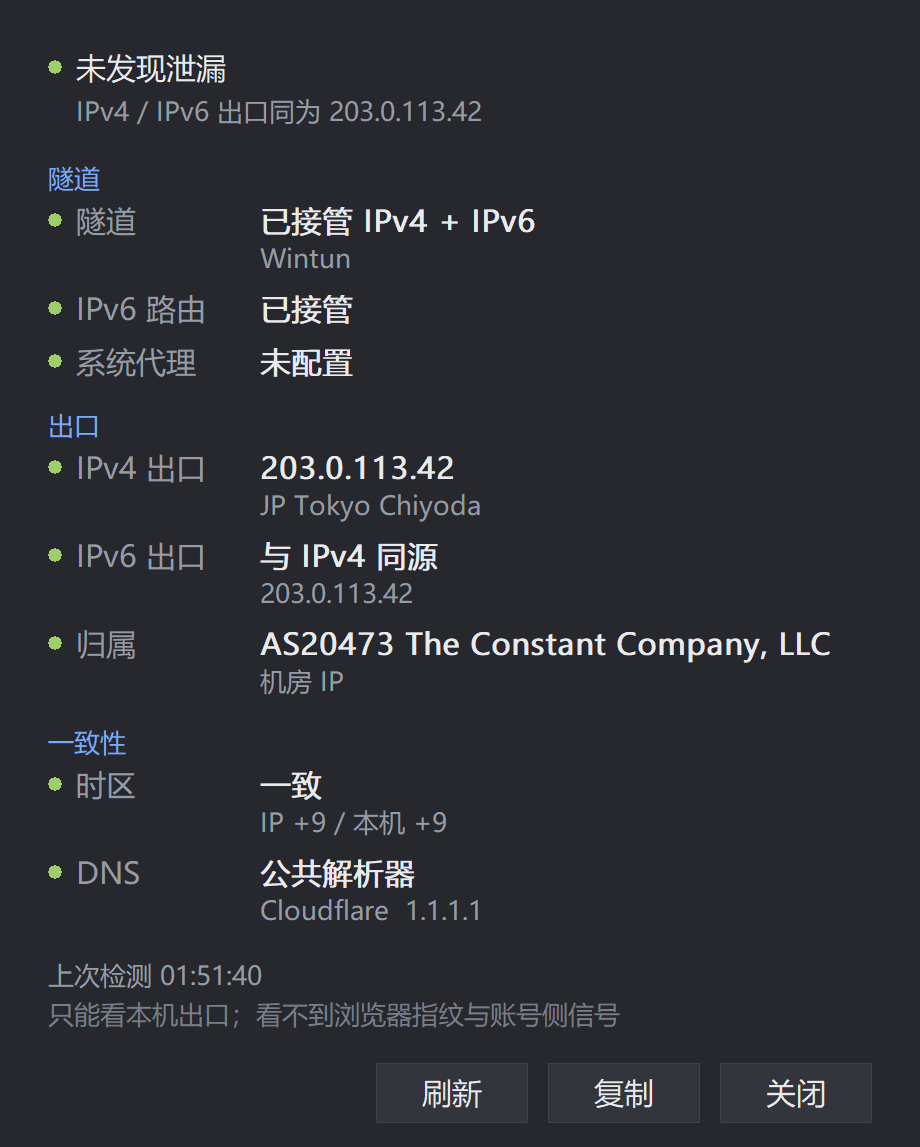
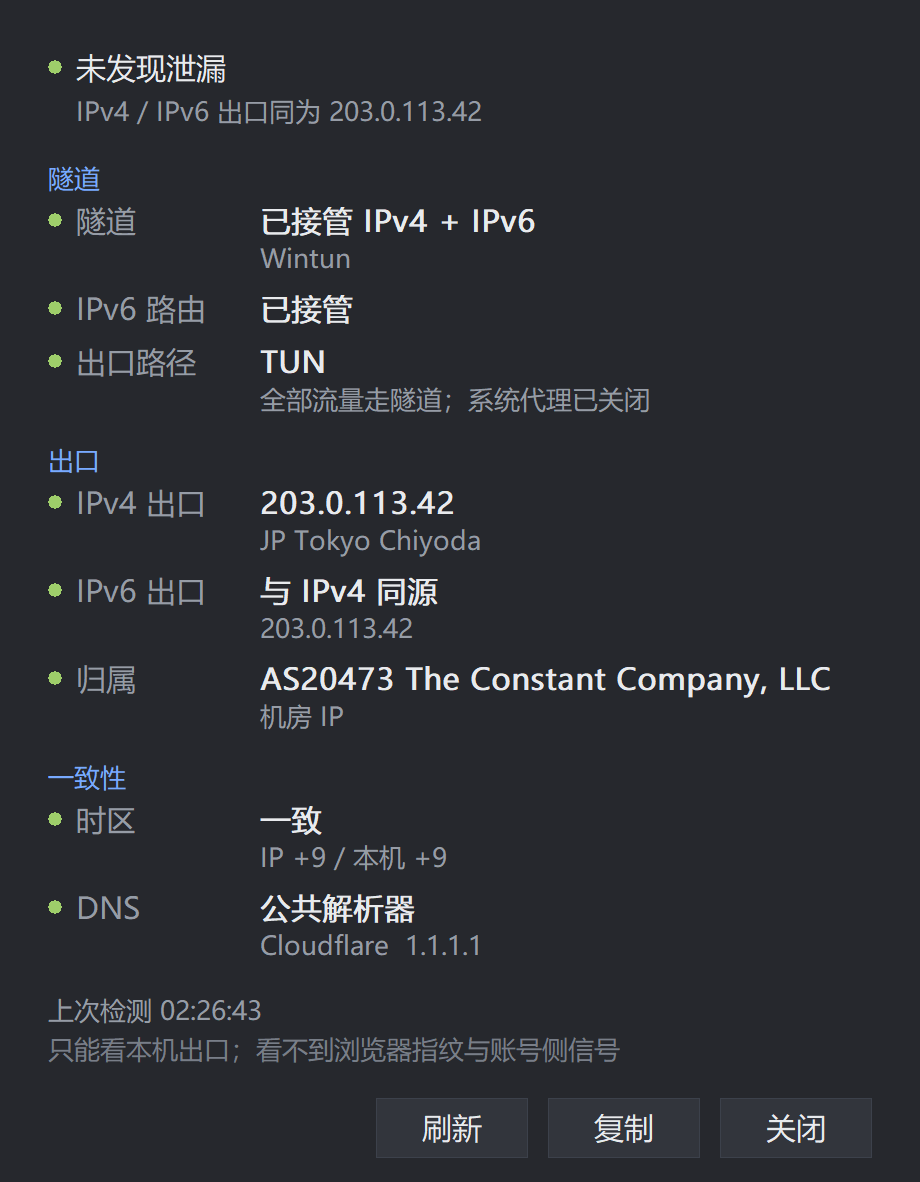
改：第三行徽章「代理」→「路径」，回答"靠什么出去"而不是"开关是几"
原来的判定只报系统代理的开关状态，于是四种组合里三种都是绿的：
开 TUN + 关代理绿、关 TUN + 开代理也绿 —— 等于一个永远显示绿的装饰，
而且"已关闭"配绿点，容易被读成"没问题"，实际上它只是陈述注册表里的值。

现在改成回答「我现在靠什么出去、有没有两条路并存」：
  TUN              （绿）全部流量走隧道，系统代理已关闭
  TUN + 系统代理    （黄）两条路并存，冗余且会让 DNS 行为分裂
  系统代理          （绿）TUN 未接管时的唯一出口
  直连              （空心）什么都没配 —— 不涉及泄漏判定，不是通过

PAC 配了也算走代理（AutoConfigURL 优先级高于 ProxyEnable）。

diff --git a/src/probe.cpp b/src/probe.cpp
@@ -99,20 +99,29 @@ Diagnosis Diagnose(const ProbeInput& in)
         Push(d, LineId::V6Route, L"IPv6 路由", L"已接管", Sev::Ok);
     }
 
-    // ── 系统代理 ──────────────────────────────────────────────────────
-    if (f.pacConfigured) {
-        Push(d, LineId::Proxy, L"系统代理", L"PAC 已配置", Sev::Warn,
-             L"AutoConfigURL 的优先级高于 ProxyServer");
-    } else if (!f.proxyConfigured) {
-        Push(d, LineId::Proxy, L"系统代理", L"未配置", Sev::Ok);
-    } else if (!f.proxyEnabled) {
-        Push(d, LineId::Proxy, L"系统代理", L"已关闭", Sev::Ok,
-             L"注册表仍留有 " + f.proxyServer + L"（未启用）");
-    } else if (tunnelInUse) {
-        Push(d, LineId::Proxy, L"系统代理", L"已开启（与 TUN 叠加）", Sev::Warn,
-             f.proxyServer + L"：冗余，且会让 DNS 行为分裂");
-    } else {
-        Push(d, LineId::Proxy, L"系统代理", L"已开启", Sev::Ok, f.proxyServer);
+    // ── 出口路径 ──────────────────────────────────────────────────────
+    // 这一行回答的不是「系统代理开关是几」，而是「我现在靠什么出去、有几条路」。
+    // 只报开关的话，四种组合里三种都是绿的，等于没有信息量。
+    {
+        // PAC 配了就算走代理：AutoConfigURL 的优先级高于 ProxyEnable
+        const bool proxyOn = f.proxyEnabled || f.pacConfigured;
+        const std::wstring proxyDesc = f.pacConfigured ? std::wstring(L"PAC 脚本")
+                                                       : f.proxyServer;
+
+        if (tunnelInUse && proxyOn) {
+            Push(d, LineId::Proxy, L"出口路径", L"TUN + 系统代理", Sev::Warn,
+                 proxyDesc + L"：两条路并存，冗余，且会让 DNS 行为分裂");
+        } else if (tunnelInUse) {
+            Push(d, LineId::Proxy, L"出口路径", L"TUN", Sev::Ok,
+                 L"全部流量走隧道；系统代理已关闭");
+        } else if (proxyOn) {
+            Push(d, LineId::Proxy, L"出口路径", L"系统代理", Sev::Ok,
+                 proxyDesc + L"：当前唯一出口（TUN 未接管）");
+        } else {
+            // 没有任何代理路径 —— 「会不会漏」这个问题不成立，不是「通过」
+            Push(d, LineId::Proxy, L"出口路径", L"直连", Sev::Skip,
+                 L"没有配置任何代理，也没有隧道；不涉及泄漏判定", /*na=*/true);
+        }
     }
 
     // ── IPv4 出口 ────────────────────────────────────────────────────
@@ -234,7 +243,7 @@ std::vector<Badge> BuildBadges(const Diagnosis& d)
 
     add(L"TUN",  LineId::Tunnel);
     add(L"V6",   LineId::V6Route);
-    add(L"代理", LineId::Proxy);
+    add(L"路径", LineId::Proxy);
     add(L"时区", LineId::Tz);
     add(L"DNS",  LineId::Dns);
     return out;

diff --git a/tests/test_probe.cpp b/tests/test_probe.cpp
@@ -86,7 +86,8 @@ void TestClean()
     Check(!d.Find(LineId::Tunnel)->na, "clean: tunnel is applicable when TUN is on");
     CheckSev(d.Find(LineId::V6Route)->sev, Sev::Ok, "clean: v6 route ok");
     CheckSev(d.Find(LineId::ExitV6)->sev, Sev::Ok, "clean: exit v6 same as v4");
-    CheckSev(d.Find(LineId::Proxy)->sev, Sev::Ok, "clean: proxy off");
+    CheckSev(d.Find(LineId::Proxy)->sev, Sev::Ok, "clean: path is TUN");
+    CheckW(d.Find(LineId::Proxy)->value, L"TUN", "clean: path value");
 }
 
 // 坑 1：v6 没被接管，但本机有公网 v6 —— 结构性泄漏
@@ -193,7 +194,7 @@ void TestNoProxyV6Direct()
     std::vector<Badge> b = BuildBadges(d);
     Check(b[0].na, "novpn: TUN badge is hollow");
     Check(b[1].na, "novpn: V6 badge is hollow");
-    Check(!b[2].na, "novpn: proxy badge is not hollow");
+    Check(b[2].na, "novpn: 路径 badge is hollow when nothing is configured");
 }
 
 void TestBadges()
@@ -204,7 +205,7 @@ void TestBadges()
     Check(b.size() == 5, "badges: 5 badges");
     CheckW(b[0].label, L"TUN", "badges: 0 is TUN");
     CheckW(b[1].label, L"V6", "badges: 1 is V6");
-    CheckW(b[2].label, L"代理", "badges: 2 is 代理");
+    CheckW(b[2].label, L"路径", "badges: 2 is 路径");
     CheckW(b[3].label, L"时区", "badges: 3 is 时区");
     CheckW(b[4].label, L"DNS", "badges: 4 is DNS");
     CheckSev(b[4].sev, Sev::Skip, "badges: DNS is skip before it is checked");

diff --git a/README.md b/README.md
@@ -6,7 +6,7 @@
 
 <p align="center">
   <img src="preview-exe.png" width="640"
-       alt="ip-float 卡片：第一行 203.0.113.42 · JP Tokyo Chiyoda，第二行 AS20473 Vultr · 2分钟前，第三行五个绿色状态点 TUN / V6 / 代理 / 时区 / DNS">
+       alt="ip-float 卡片：第一行 203.0.113.42 · JP Tokyo Chiyoda，第二行 AS20473 Vultr · 2分钟前，第三行五个绿色状态点 TUN / V6 / 路径 / 时区 / DNS">
 </p>
 
 <p align="center"><sub>卡片本体 · 340×80 逻辑像素 · 离屏渲染（示例数据）</sub></p>
